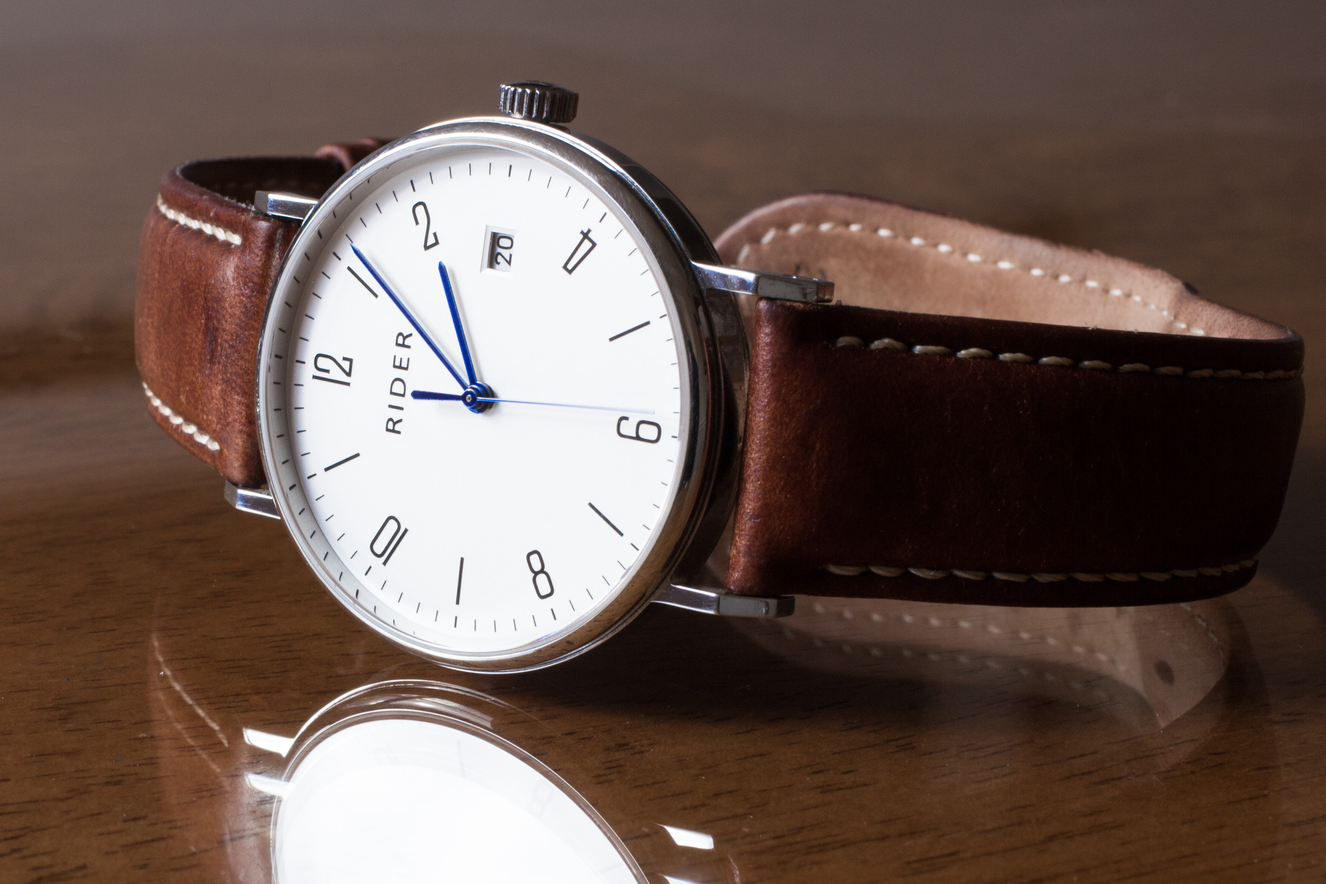
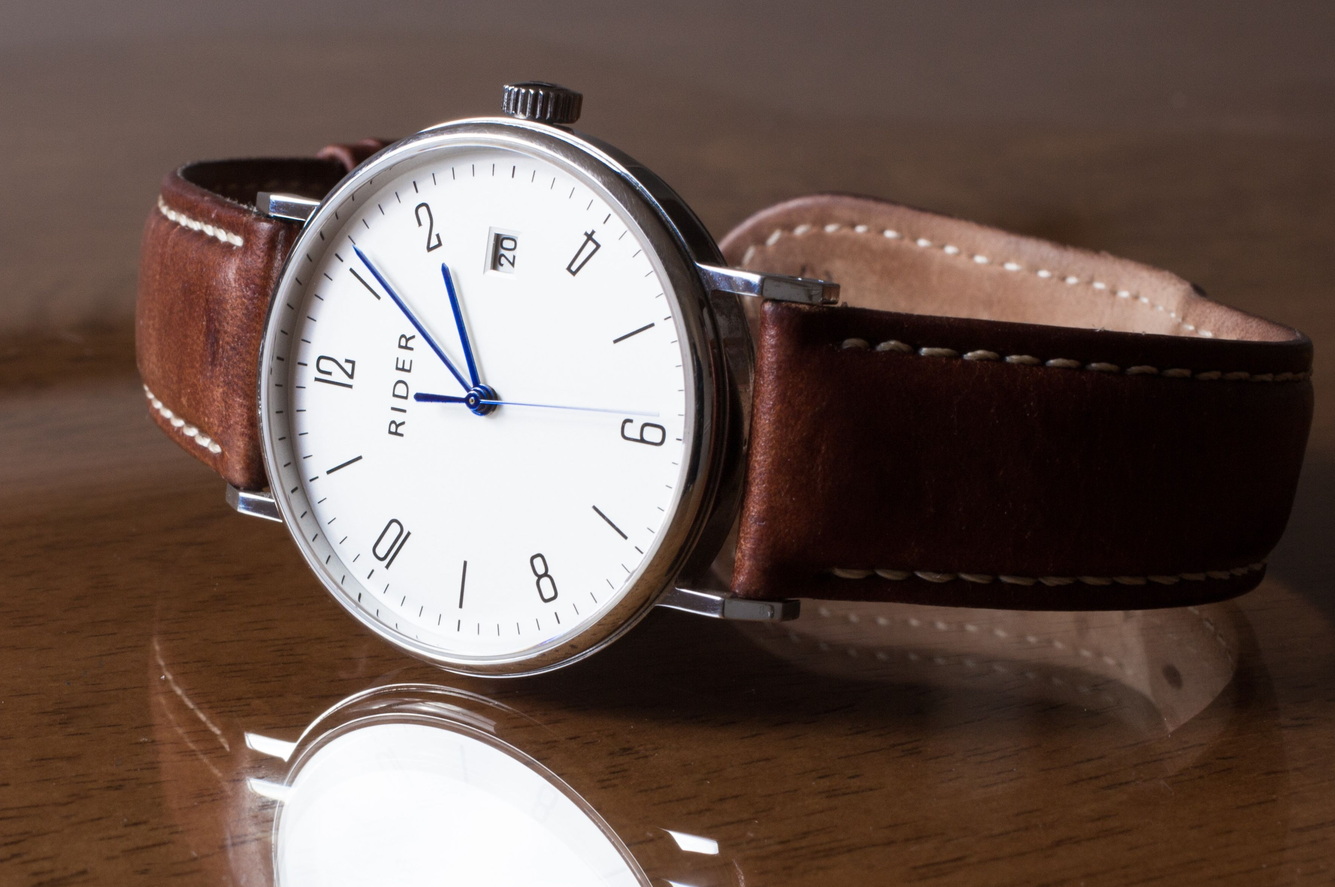
modified the ratio of the imgs

diff --git a/index.php b/index.php
@@ -14,7 +14,7 @@
 	</div>
 	<!--end slides-->
 	<!-- about me -->
-	<div id="aboutMe" class="text center pb-5">
+	<div id="aboutUs" class="text center pb-5">
 		<h1>about us</h1>
 		<p>
 			ipsum dolor sit amet, consectetur adipisicing elit, sed do eiusmod
